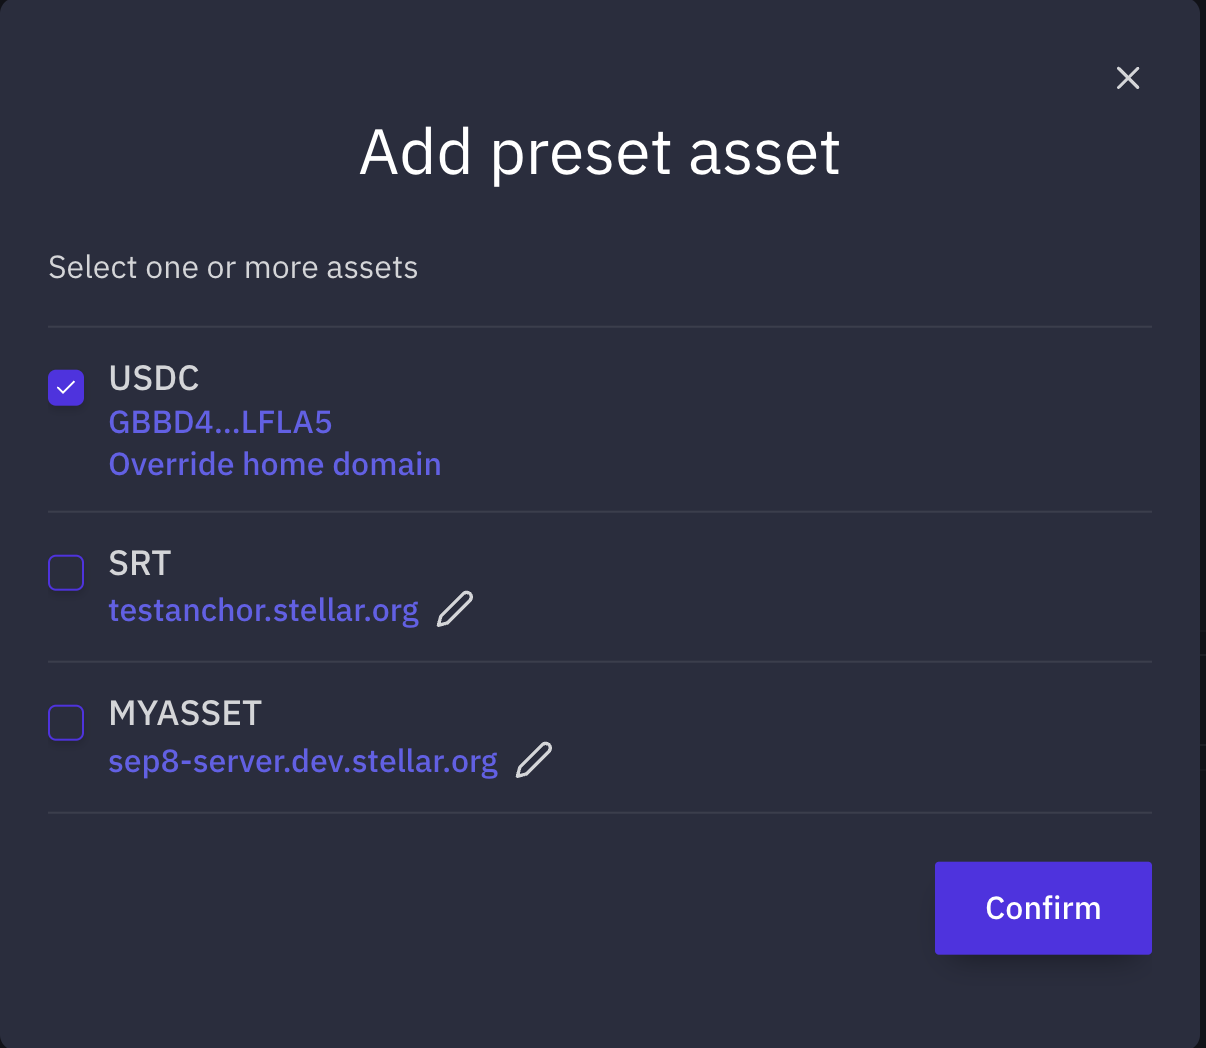
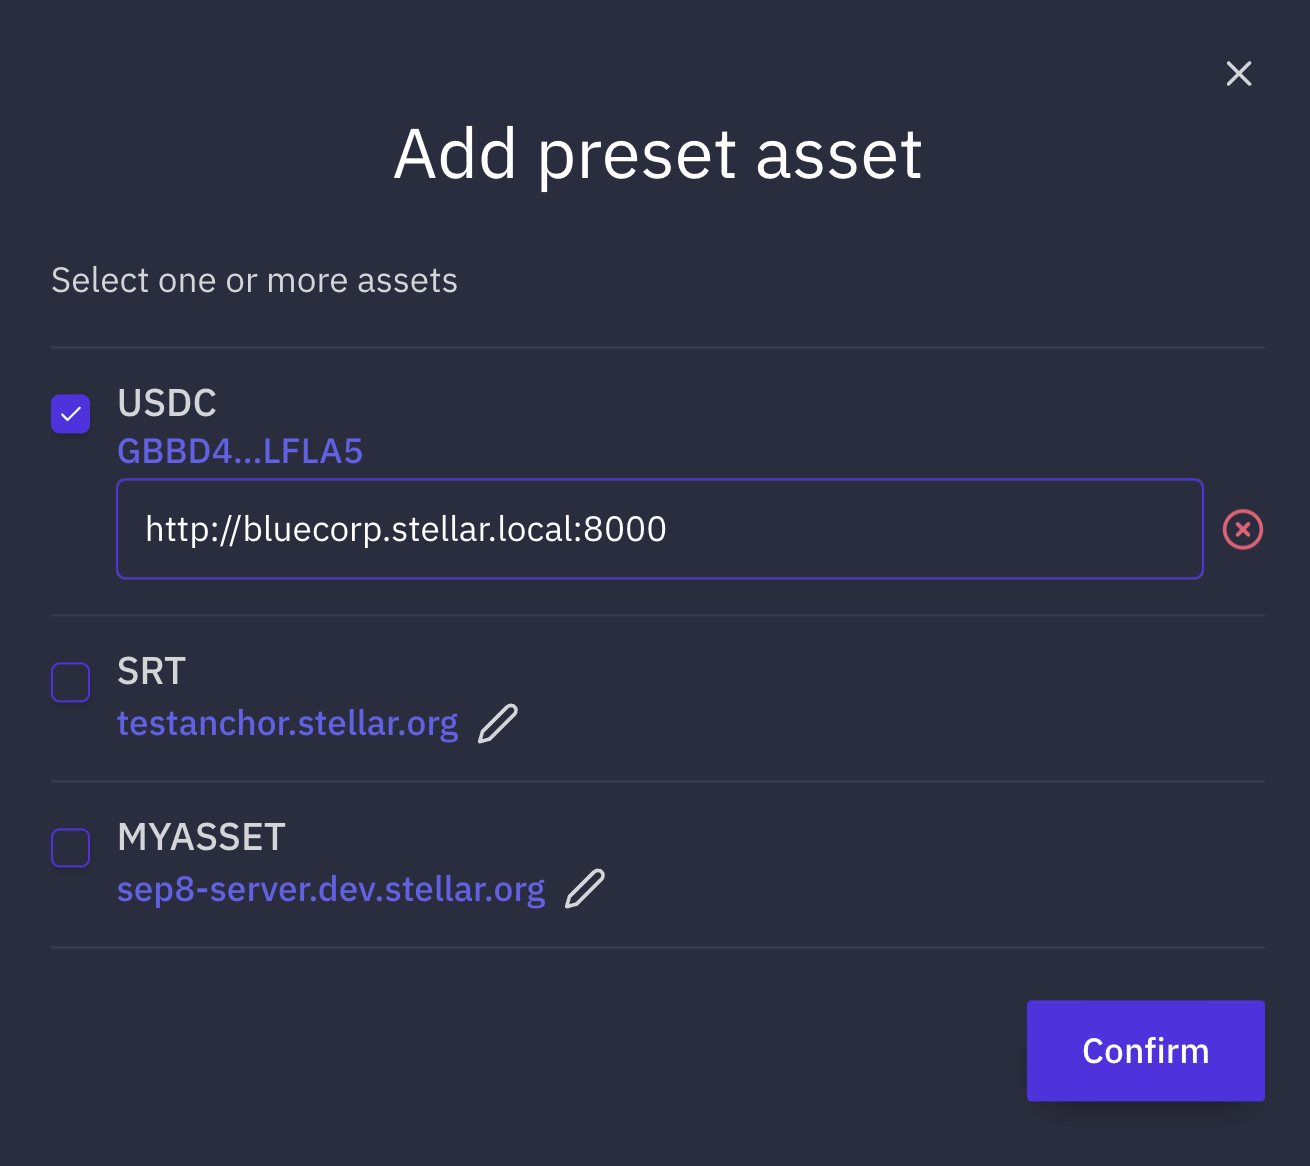
Simplify Demo Wallet setup

diff --git a/dev/README.md b/dev/README.md
@@ -158,7 +158,8 @@ Now deposit the disbursement payment into the digital wallet using the SEP-24 de
    
    <img src="images/demo_wallet.png" alt="Demo Wallet" width="40%">
 
-5. Add `USDC` by clicking `Add from preset assets` link, selecting the `USDC` Checkbox and clicking `Confirm`.
+5. Add `USDC` by clicking `Add from preset assets` link, selecting the `USDC` Checkbox and clicking `Override Home Domain`  to edit the home domain.
+Enter `http://bluecorp.stellar.local:8000` and click the `Confirm` button.
 
    <img src="images/demo_wallet1.png" alt="Demo Wallet" width="40%">
 
@@ -166,27 +167,23 @@ Now deposit the disbursement payment into the digital wallet using the SEP-24 de
 
    <img src="images/demo_wallet2.png" alt="Add Trustline" width="40%">
 
-7. Click the `pencil` icon beside `USDC` balance to edit the home domain. Enter `http://bluecorp.stellar.local:8000` and click the `Override` button.
-
-   <img src="images/demo_wallet3.png" alt="Edit Home Domain" width="40%">
-
-8. In the `USDC` `Select action` dropdown, select `SEP-24 Deposit` and then click the `Start` button.
+7. In the `USDC` `Select action` dropdown, select `SEP-24 Deposit` and then click the `Start` button.
    
    <img src="images/sep24_deposit1.png" alt="SEP-24 Deposit" width="40%">
 
-9.  In the new window, enter the phone number `+13163955627` from the disbursement CSV payment.
+8.  In the new window, enter the phone number `+13163955627` from the disbursement CSV payment.
     
     <img src="images/sep24_deposit2.png" alt="Enter Phone Number" width="40%">
 
-10. To verify the payment, enter the passcode and date of birth. You can use `000000` passcode or find the actual passcode in the `sdp-api` container logs.
+9. To verify the payment, enter the passcode and date of birth. You can use `000000` passcode or find the actual passcode in the `sdp-api` container logs.
 
     <img src="images/sep24_deposit3.png" alt="Verify Payment" width="40%">
 
-11. The SEP-24 interactive pop-up will confirm the registration was successful. At this point, the SDP can associate the wallet address with the receiver phone number. It should then start processing the transaction to send the payment. If you check the dashboard, the payment should be in a `PENDING` state.
+10. The SEP-24 interactive pop-up will confirm the registration was successful. At this point, the SDP can associate the wallet address with the receiver phone number. It should then start processing the transaction to send the payment. If you check the dashboard, the payment should be in a `PENDING` state.
 
     <img src="images/payment1.png" alt="Pending Payment" width="55%">
 
-12. Once complete, the payment status will be `Success` and your wallet will have the USDC.
+11. Once complete, the payment status will be `Success` and your wallet will have the USDC.
 
     <img src="images/payment2.png" alt="Successful Payment" width="55%">
 
